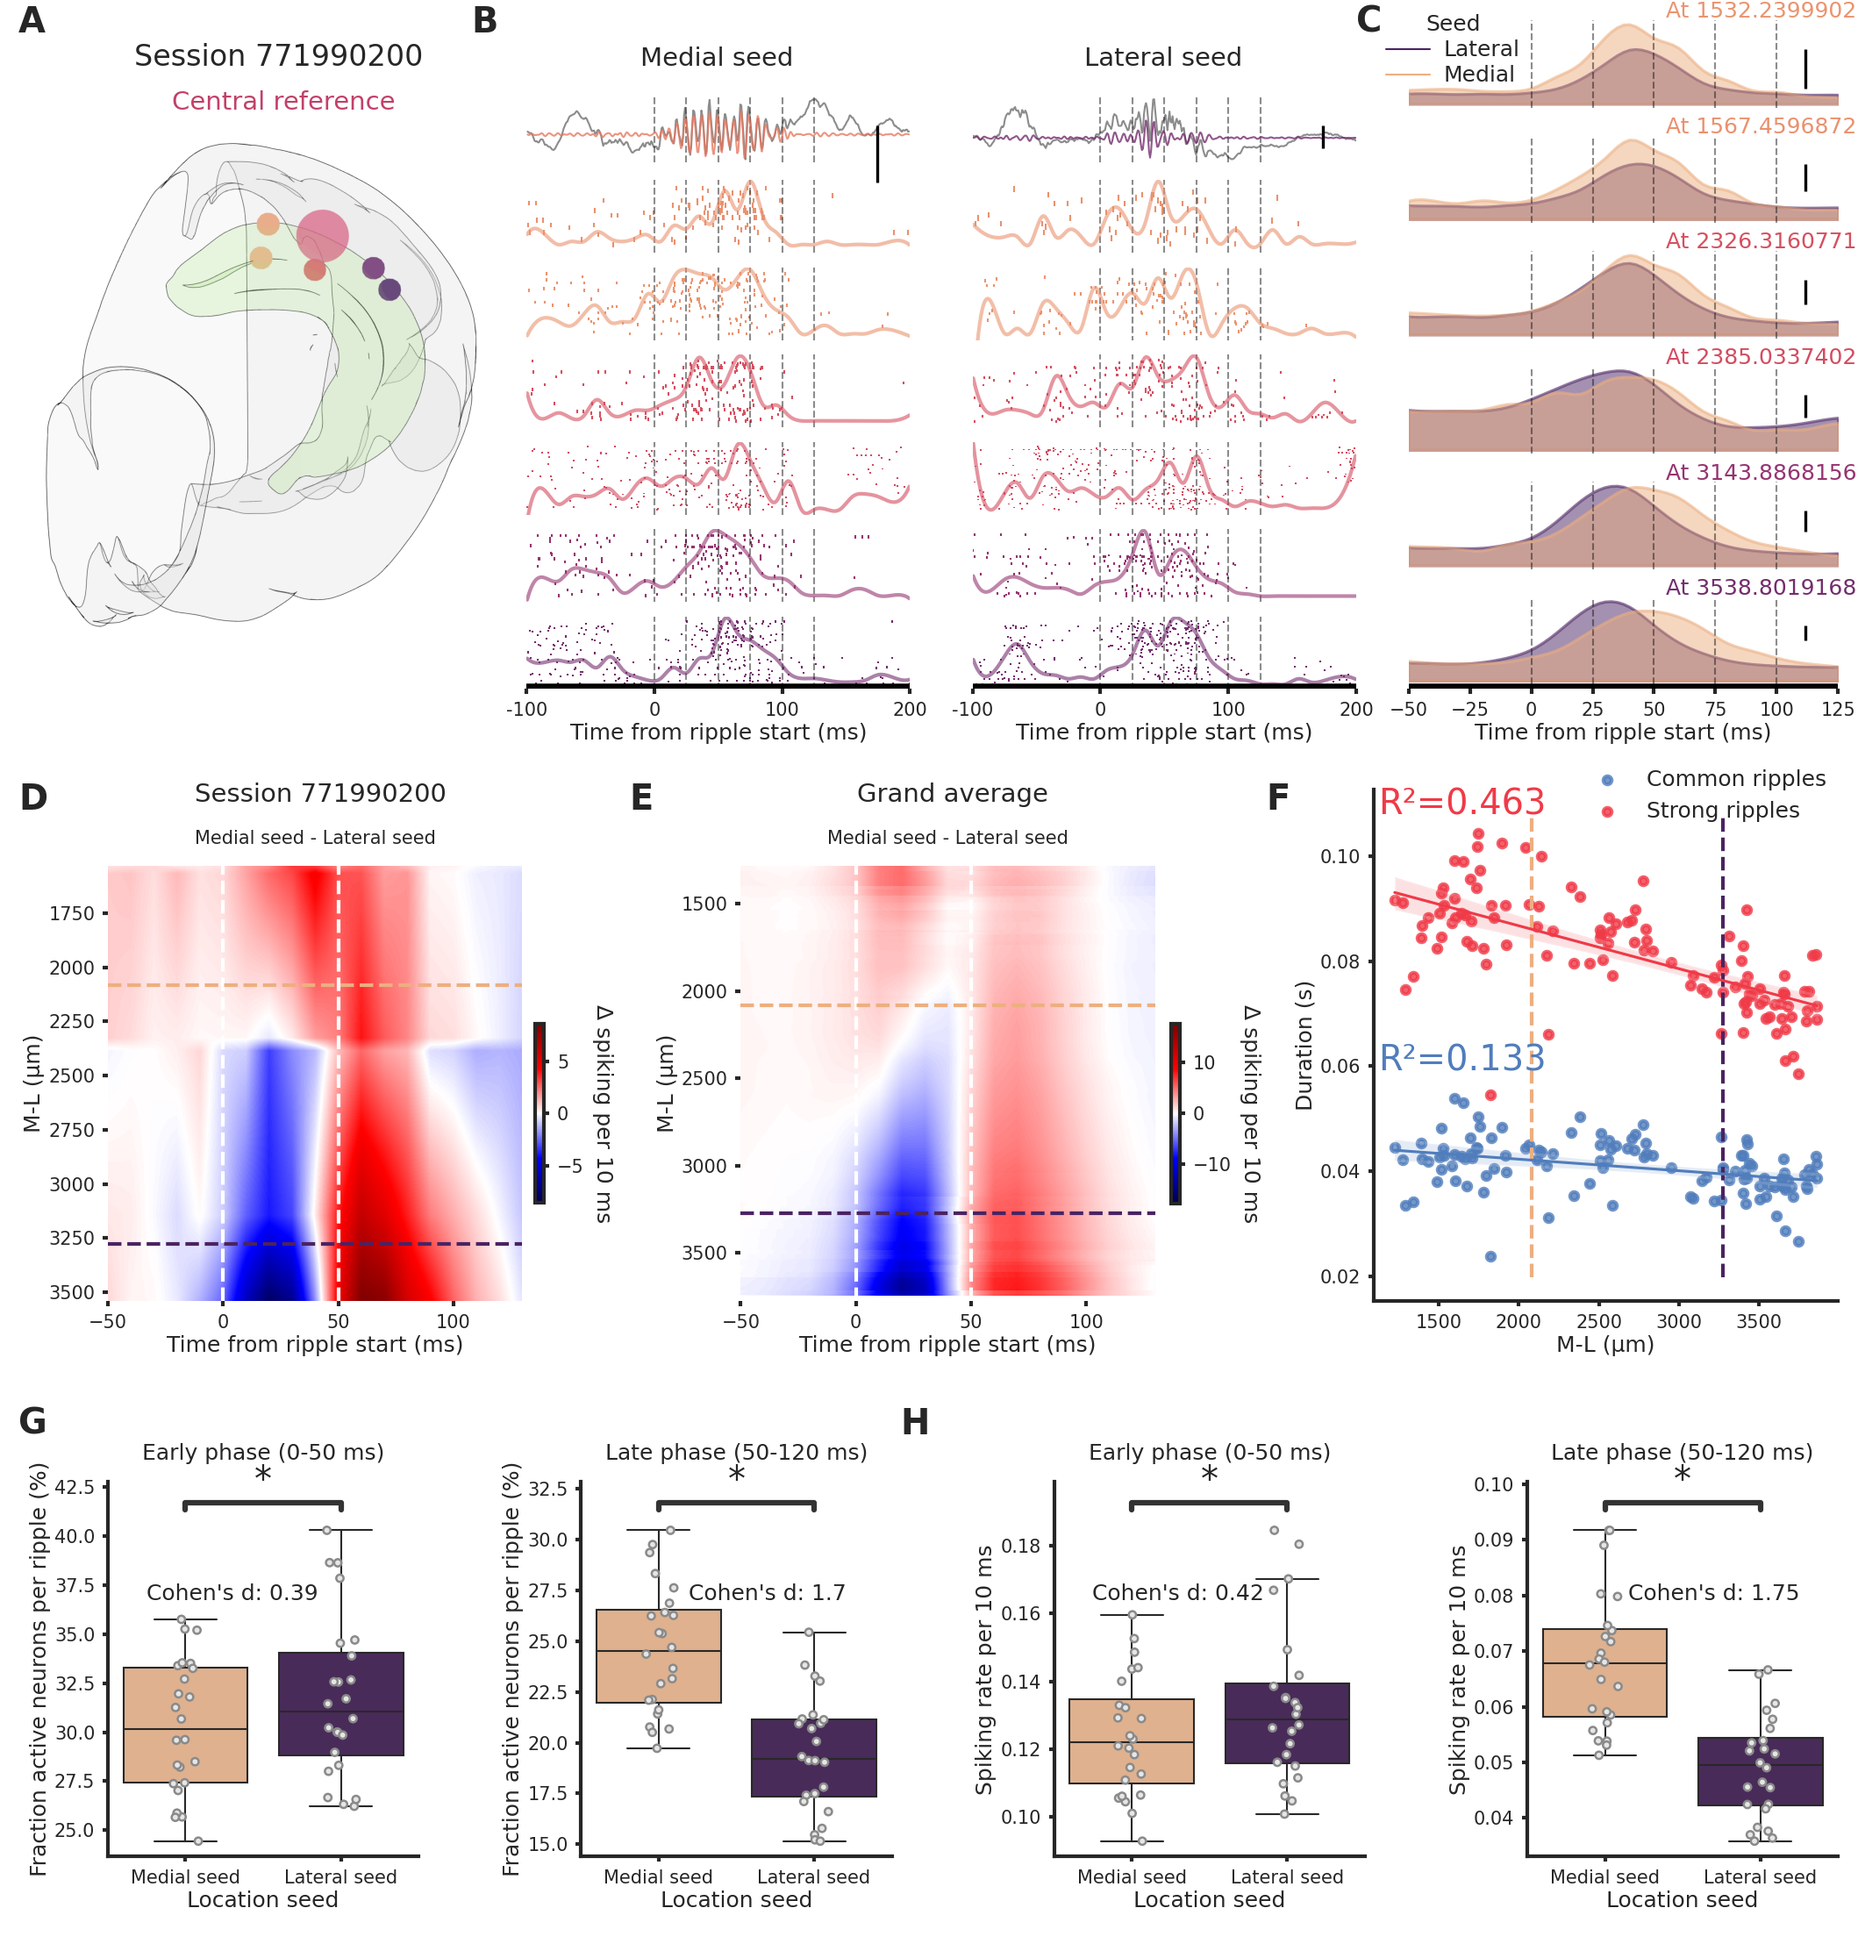
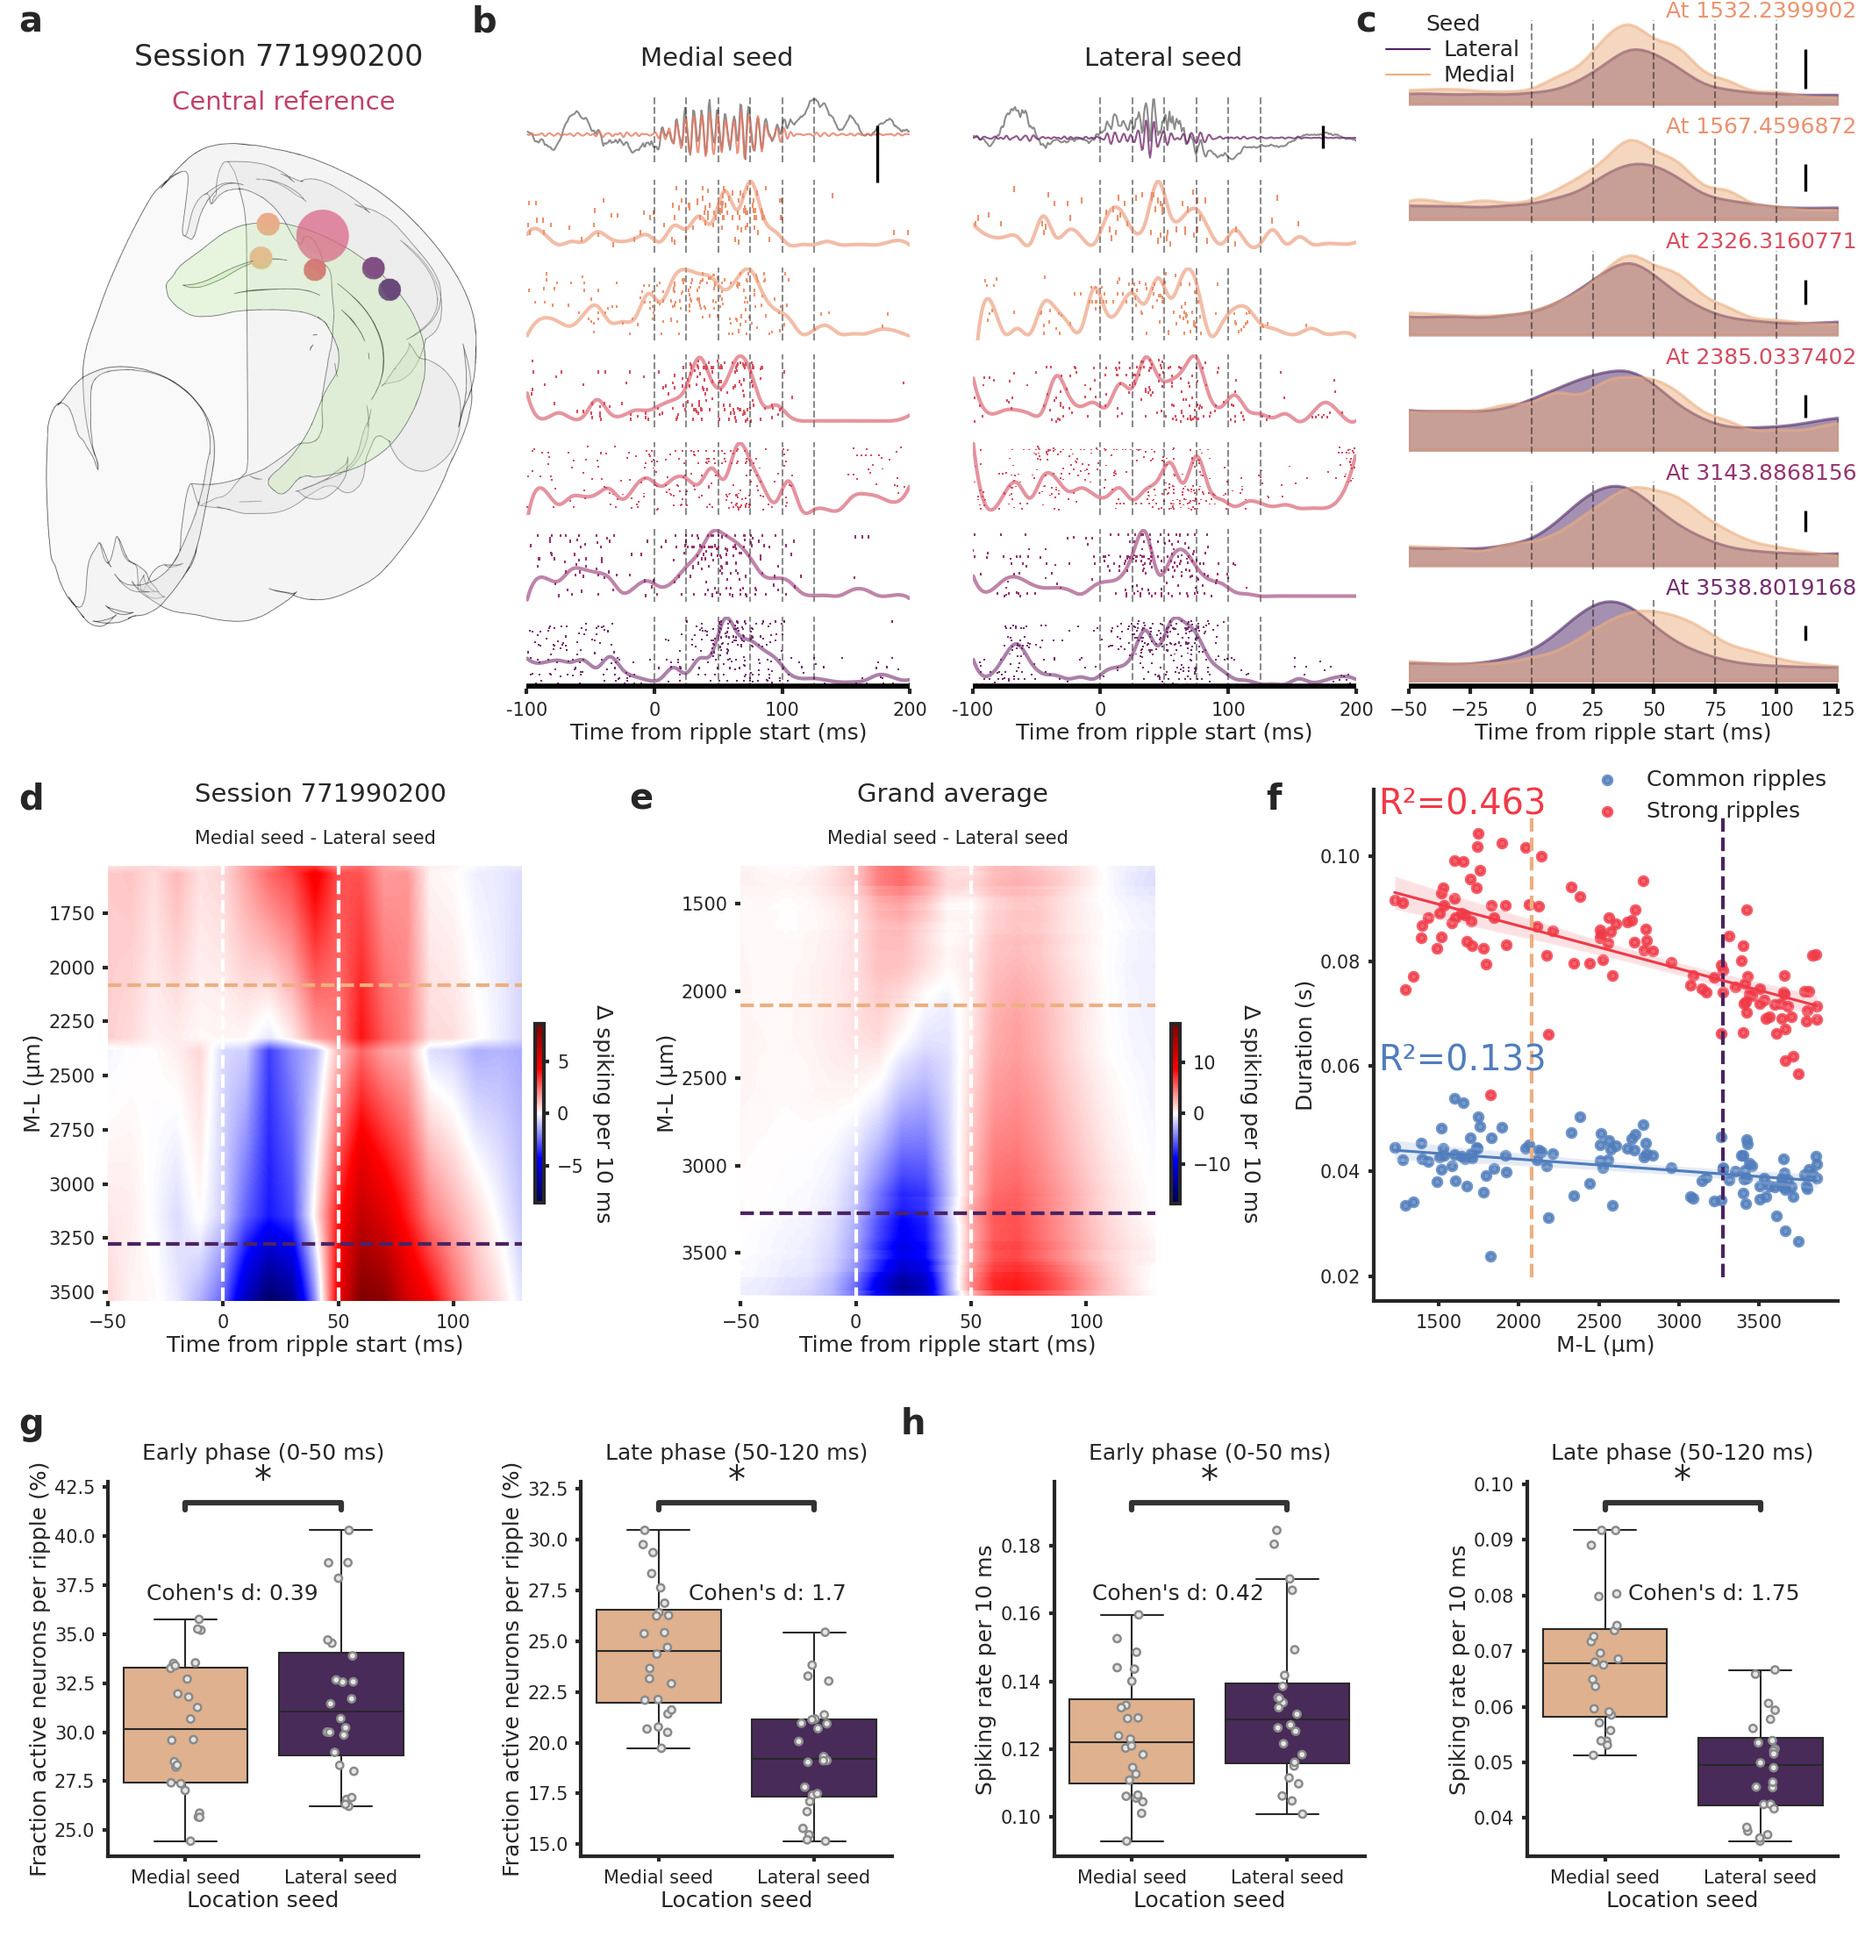
Adapt for Nature style lettering

diff --git a/Manuscript/introduction.py b/Manuscript/introduction.py
@@ -31,10 +31,10 @@ introduction= "Hippocampal ripples are brief oscillatory events detected in the 
               "along its long axis. " \
               "The different connectivity contributes " \
               "to explain the functional organization gradient between a predominantly spatio-visual (septal pole) and emotional (temporal pole) processing. " \
-              "Ripples generated in the septal and temporal hippocampal pole has already been shown to be temporally independent and able to engage " \
+              "Ripples generated in the septal and temporal hippocampal pole have already been shown to be temporally independent and able to engage " \
               "different neuron subpopulations, even in the same downstream brain area {Sosa, 2020 #1154}. Consequentially, a heterogeneous " \
               "ripple generation chance along the longitudinal axis " \
-              "most probably has an impact on the frequency with which different brain areas and neurons subgroups are activated. " \
+              "most probably has an impact on the frequency with which different brain areas and neurons subgroups are activated by ripples. " \
               "Our work is based on a dataset provided by the Allen Institute {Siegle, 2021 #1127}, this dataset enabled us to study" \
               " comprehensively ripples features " \
               "across the septal half of the hippocampus. Previous studies have looked at ripple propagation along the longitudinal " \

diff --git a/Utils/Utils.py b/Utils/Utils.py
@@ -1765,11 +1765,23 @@ def spike_summary(spike_hists, area_to_analyze, reference_location, medial_lim, 
 
 def format_for_annotator(out_test, field, between):
     out_test[field] = between
-    out_test = out_test[out_test["p-unc"] < .05]
+    try:
+        out_test = out_test[out_test["p-unc"] < .05]
+    except:
+        try:
+            out_test = out_test[out_test["p-tukey"] < .05]
+        except:
+            pass
     pair_A = tuple(zip(out_test[field], out_test["A"]))
     pair_B = tuple(zip(out_test[field], out_test["B"]))
     pairs = list(zip(pair_A, pair_B))
-    pvalues = out_test["p-unc"].values
+    try:
+        pvalues = out_test["p-unc"].values
+    except:
+        try:
+            pvalues = out_test["p-tukey"].values
+        except:
+            pass
     return pairs, pvalues
 
 def postprocess_spike_hists(out_hist_lateral, out_hist_medial, lrs):
@@ -1881,5 +1893,8 @@ def get_ML_limits(var_thr):
     ml_space = pd.concat(input_rip)
     return ml_space
 
-
+def Naturize():
+    for label in plt.figure(1).texts:
+        if len(label.get_text())==1:
+            label.set_text(label.get_text().lower())
 

diff --git a/Manuscript/discussion.py b/Manuscript/discussion.py
@@ -35,7 +35,7 @@ discussion = "Our results show for the first time that strong ripples propagate 
              "produce shorter ripples both in awake and sleep conditions {Sosa, 2020 #1154}. \n"\
             "What is the reason that enables the septal pole to generate longer ripples? There might be for example underlying electrophysiological" \
              " differences between the septal and intermediate hippocampus. Looking at units electrophysiological features we found some differences in the waveform shape and " \
-             "duration,. We can hypothesize that slower action potentials and, consequentially, " \
+             "duration. We can hypothesize that slower action potentials and, consequentially, " \
              "longer refractory periods hinder the ability" \
              " to sustain protracted high frequency spiking. Accordingly, we found an increased firing rate and a smaller waveform duration in the septal pole. " \
              "This might contribute to explain the prolonged ripples observed in the septal pole. " \

diff --git a/Figures/Supplementary/Figure_1/Figure_1.py b/Figures/Supplementary/Figure_1/Figure_1.py
@@ -1,7 +1,8 @@
 import matplotlib.pyplot as plt
 import pylustrator
 import pickle
-from Utils.Settings import output_folder_supplementary , output_folder_figures_calculations
+from Utils.Settings import output_folder_supplementary , output_folder_figures_calculations, Adapt_for_Nature_style
+from Utils.Utils import Naturize
 
 with open(f"{output_folder_figures_calculations}/temp_data_supp_figure_1.pkl", "rb") as fp:  # Unpickling
     _, _, session_id, _, _, _ = pickle.load(fp)
@@ -63,6 +64,10 @@ plt.figure(1).text(0.5, 0.5, 'New Text', transform=plt.figure(1).transFigure)  #
 plt.figure(1).texts[6].set_position([0.255583, 0.382583])
 plt.figure(1).texts[6].set_text("F")
 plt.figure(1).texts[6].set_weight("bold")
+
+if Adapt_for_Nature_style is True:
+    Naturize()
+
 #% end: automatic generated code from pylustrator
 #plt.show()
 plt.savefig(f"{output_folder_supplementary}/Supplementary_Figure_2", dpi=300)

diff --git a/Figures/Supplementary/Supplementary_Figure_spiking_rate_fraction_active_by_seed.py b/Figures/Supplementary/Supplementary_Figure_spiking_rate_fraction_active_by_seed.py
@@ -5,7 +5,8 @@ import seaborn as sns
 import Utils.Style
 import pingouin as pg
 from Utils.Style import palette_ML
-from Utils.Settings import output_folder_figures_calculations, output_folder_supplementary
+from Utils.Settings import output_folder_figures_calculations, output_folder_supplementary, Adapt_for_Nature_style
+from Utils.Utils import Naturize
 from statannotations.Annotator import Annotator
 import pylustrator
 
@@ -94,6 +95,10 @@ plt.figure(1).text(0.5, 0.5, 'New Text', transform=plt.figure(1).transFigure)  #
 plt.figure(1).texts[1].set_position([0.494286, 0.931429])
 plt.figure(1).texts[1].set_text("B")
 plt.figure(1).texts[1].set_weight("bold")
+
+if Adapt_for_Nature_style is True:
+    Naturize()
+
 #% end: automatic generated code from pylustrator
 #plt.show()
 plt.savefig(f"{output_folder_supplementary}/Supplementary_Figure_9", dpi=300)

diff --git a/Figures/Supplementary/Supplementary_Figure_units_per_hippocampal_section.py b/Figures/Supplementary/Supplementary_Figure_units_per_hippocampal_section.py
@@ -1,4 +1,5 @@
-from Utils.Settings import output_folder_calculations, output_folder_supplementary, var_thr, waveform_PT_ratio_thr, isi_violations_thr, amplitude_cutoff_thr, presence_ratio_thr
+from Utils.Settings import output_folder_calculations, output_folder_supplementary, var_thr, waveform_PT_ratio_thr, isi_violations_thr, amplitude_cutoff_thr, presence_ratio_thr, Adapt_for_Nature_style
+from Utils.Utils import Naturize
 import dill
 import pingouin as pg
 from scipy.stats import ks_2samp
@@ -105,6 +106,10 @@ plt.figure(1).text(0.5, 0.5, 'New Text', transform=plt.figure(1).transFigure)  #
 plt.figure(1).texts[1].set_position([0.512000, 0.981250])
 plt.figure(1).texts[1].set_text("B")
 plt.figure(1).texts[1].set_weight("bold")
+
+if Adapt_for_Nature_style is True:
+    Naturize()
+
 #% end: automatic generated code from pylustrator
 
 #plt.show()

diff --git a/Figures/Supplementary/Supplementary_Figure_duration_amplitude.py b/Figures/Supplementary/Supplementary_Figure_duration_amplitude.py
@@ -2,7 +2,8 @@ import seaborn as sns
 from scipy.stats import pearsonr
 from tqdm import tqdm
 import dill
-from Utils.Settings import output_folder_calculations, output_folder_supplementary, var_thr
+from Utils.Settings import output_folder_calculations, output_folder_supplementary, var_thr, Adapt_for_Nature_style
+from Utils.Utils import Naturize
 from Utils.Utils import clean_ripples_calculations
 import pandas as pd
 import matplotlib.pyplot as plt
@@ -33,6 +34,10 @@ for ax, session_id in zip(g.axes.flat, ripples_all["Session"].unique()):
 
     ax.text(.1, .2, f"R\u00b2={round(r ** 2, 2)}", horizontalalignment='left',
             size='xx-large', color='black', weight='semibold')
+
+
+if Adapt_for_Nature_style is True:
+    Naturize()
 
 plt.show()
 #plt.savefig(f"{output_folder_supplementary}/Supplementary_Figure_duration_amplitude", dpi=300)

diff --git a/Figures/Figure_4/Figure_4.py b/Figures/Figure_4/Figure_4.py
@@ -2,7 +2,8 @@ import matplotlib.pyplot as plt
 import pylustrator
 import dill
 from Utils.Style import palette_ML
-from Utils.Settings import output_folder, output_folder_figures_calculations
+from Utils.Settings import output_folder, output_folder_figures_calculations, Adapt_for_Nature_style
+from Utils.Utils import Naturize
 
 with open(f"{output_folder_figures_calculations}/temp_data_figure_4.pkl", 'rb') as f:
     space_sub_spike_times, target_area, units, field_to_use_to_compare,\
@@ -114,6 +115,10 @@ plt.figure(1).texts[13].set_fontsize(7)
 plt.figure(1).texts[13].set_ha("center")
 plt.figure(1).texts[13].set_position([0.152337, 0.943718])
 plt.figure(1).texts[13].set_text("Central reference")
+
+if Adapt_for_Nature_style is True:
+    Naturize()
+
 #% end: automatic generated code from pylustrator
 #plt.show()
 

diff --git a/Figures/Supplementary/Supplementary_Figure_ML_sections_limits.py b/Figures/Supplementary/Supplementary_Figure_ML_sections_limits.py
@@ -1,6 +1,7 @@
 import matplotlib.pyplot as plt
 import pylustrator
-from Utils.Settings import output_folder_supplementary, output_folder_figures_calculations, root_github_repo
+from Utils.Settings import output_folder_supplementary, output_folder_figures_calculations, root_github_repo, Adapt_for_Nature_style
+from Utils.Utils import Naturize
 
 # to recompute data run both:Util_Supplementary_brainrender_limits.py & Util_Supplementary_Figure_ML_sections_limits.py
 
@@ -22,6 +23,10 @@ plt.figure(1).text(0.5, 0.5, 'New Text', transform=plt.figure(1).transFigure)  #
 plt.figure(1).texts[1].set_position([0.004052, 0.531655])
 plt.figure(1).texts[1].set_text("B")
 plt.figure(1).texts[1].set_weight("bold")
+
+if Adapt_for_Nature_style is True:
+    Naturize()
+
 #% end: automatic generated code from pylustrator
 #plt.show()
 

diff --git a/Figures/Figure_3/Figure_3.py b/Figures/Figure_3/Figure_3.py
@@ -1,7 +1,9 @@
 import matplotlib.pyplot as plt
 import pylustrator
 from Utils.Style import palette_ML, palette_timelags
-from Utils.Settings import output_folder, output_folder_figures_calculations
+from Utils.Settings import output_folder, output_folder_figures_calculations, Adapt_for_Nature_style
+from Utils.Utils import Naturize
+
 pylustrator.start()
 
 pylustrator.load("Figure_3_seed_by_ML_strong.py", offset=[0, 0])
@@ -57,6 +59,10 @@ plt.figure(1).texts[6].set_fontsize(8)
 plt.figure(1).texts[6].set_ha("center")
 plt.figure(1).texts[6].set_position([0.832856, 0.438257])
 plt.figure(1).texts[6].set_text("Lateral reference")
+
+if Adapt_for_Nature_style is True:
+    Naturize()
+
 #% end: automatic generated code from pylustrator
 #plt.show()
 plt.savefig(f"{output_folder}/Figure_3", dpi=300)

diff --git a/Figures/Supplementary/Figure_2/Figure_2.py b/Figures/Supplementary/Figure_2/Figure_2.py
@@ -1,6 +1,7 @@
 import matplotlib.pyplot as plt
 import pylustrator
-from Utils.Settings import output_folder_supplementary, output_folder_figures_calculations
+from Utils.Settings import output_folder_supplementary, output_folder_figures_calculations, Adapt_for_Nature_style
+from Utils.Utils import Naturize
 import dill
 
 with open(f"{output_folder_figures_calculations}/temp_data_figure_2.pkl", 'rb') as f:
@@ -58,6 +59,10 @@ plt.figure(1).text(0.5, 0.5, 'New Text', transform=plt.figure(1).transFigure)  #
 plt.figure(1).texts[5].set_position([0.286119, 0.324561])
 plt.figure(1).texts[5].set_text("F")
 plt.figure(1).texts[5].set_weight("bold")
+
+if Adapt_for_Nature_style is True:
+    Naturize()
+
 #% end: automatic generated code from pylustrator
 #plt.show()
 

diff --git a/Figures/Figure_1/Figure_1.py b/Figures/Figure_1/Figure_1.py
@@ -1,6 +1,7 @@
 import pylustrator
 import matplotlib.pyplot as plt
-from Utils.Settings import output_folder, output_folder_figures_calculations
+from Utils.Settings import output_folder, output_folder_figures_calculations, Adapt_for_Nature_style
+from Utils.Utils import Naturize
 
 # TODO riple strength is ripple power in panel a b c
 pylustrator.start()
@@ -76,6 +77,10 @@ plt.figure(1).text(0.5, 0.5, 'New Text', transform=plt.figure(1).transFigure)  #
 plt.figure(1).texts[8].set_position([0.696761, 0.341808])
 plt.figure(1).texts[8].set_text("I")
 plt.figure(1).texts[8].set_weight("bold")
+
+if Adapt_for_Nature_style is True:
+    Naturize()
+
 #% end: automatic generated code from pylustrator
 #plt.show()
 plt.savefig(f"{output_folder}/Figure_1", dpi=300)
